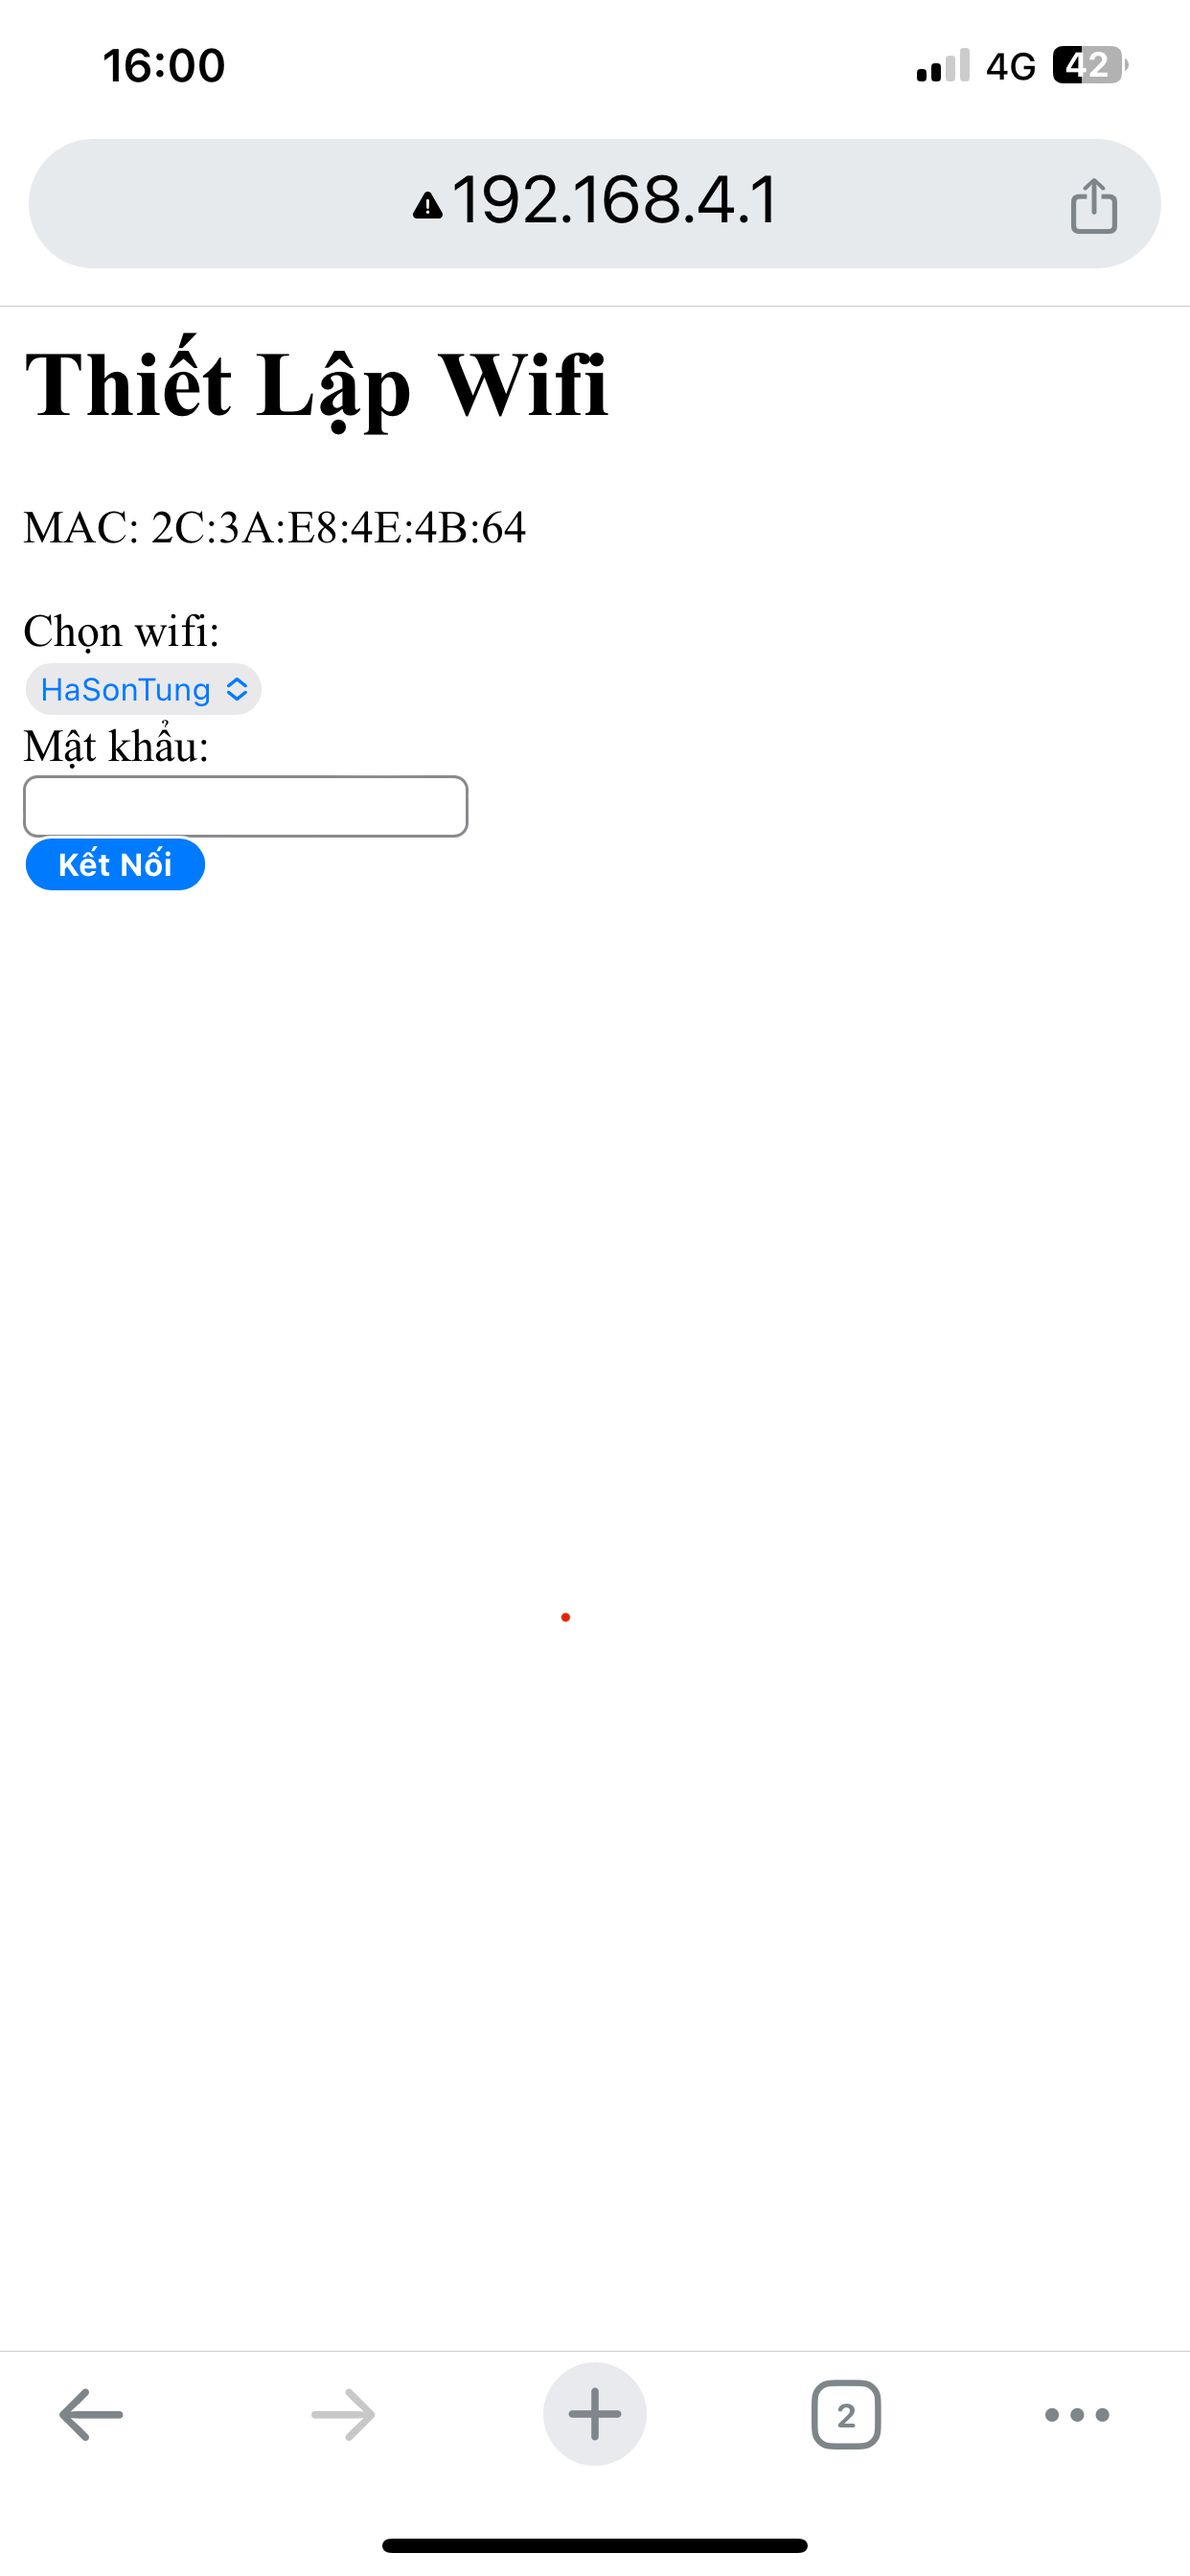
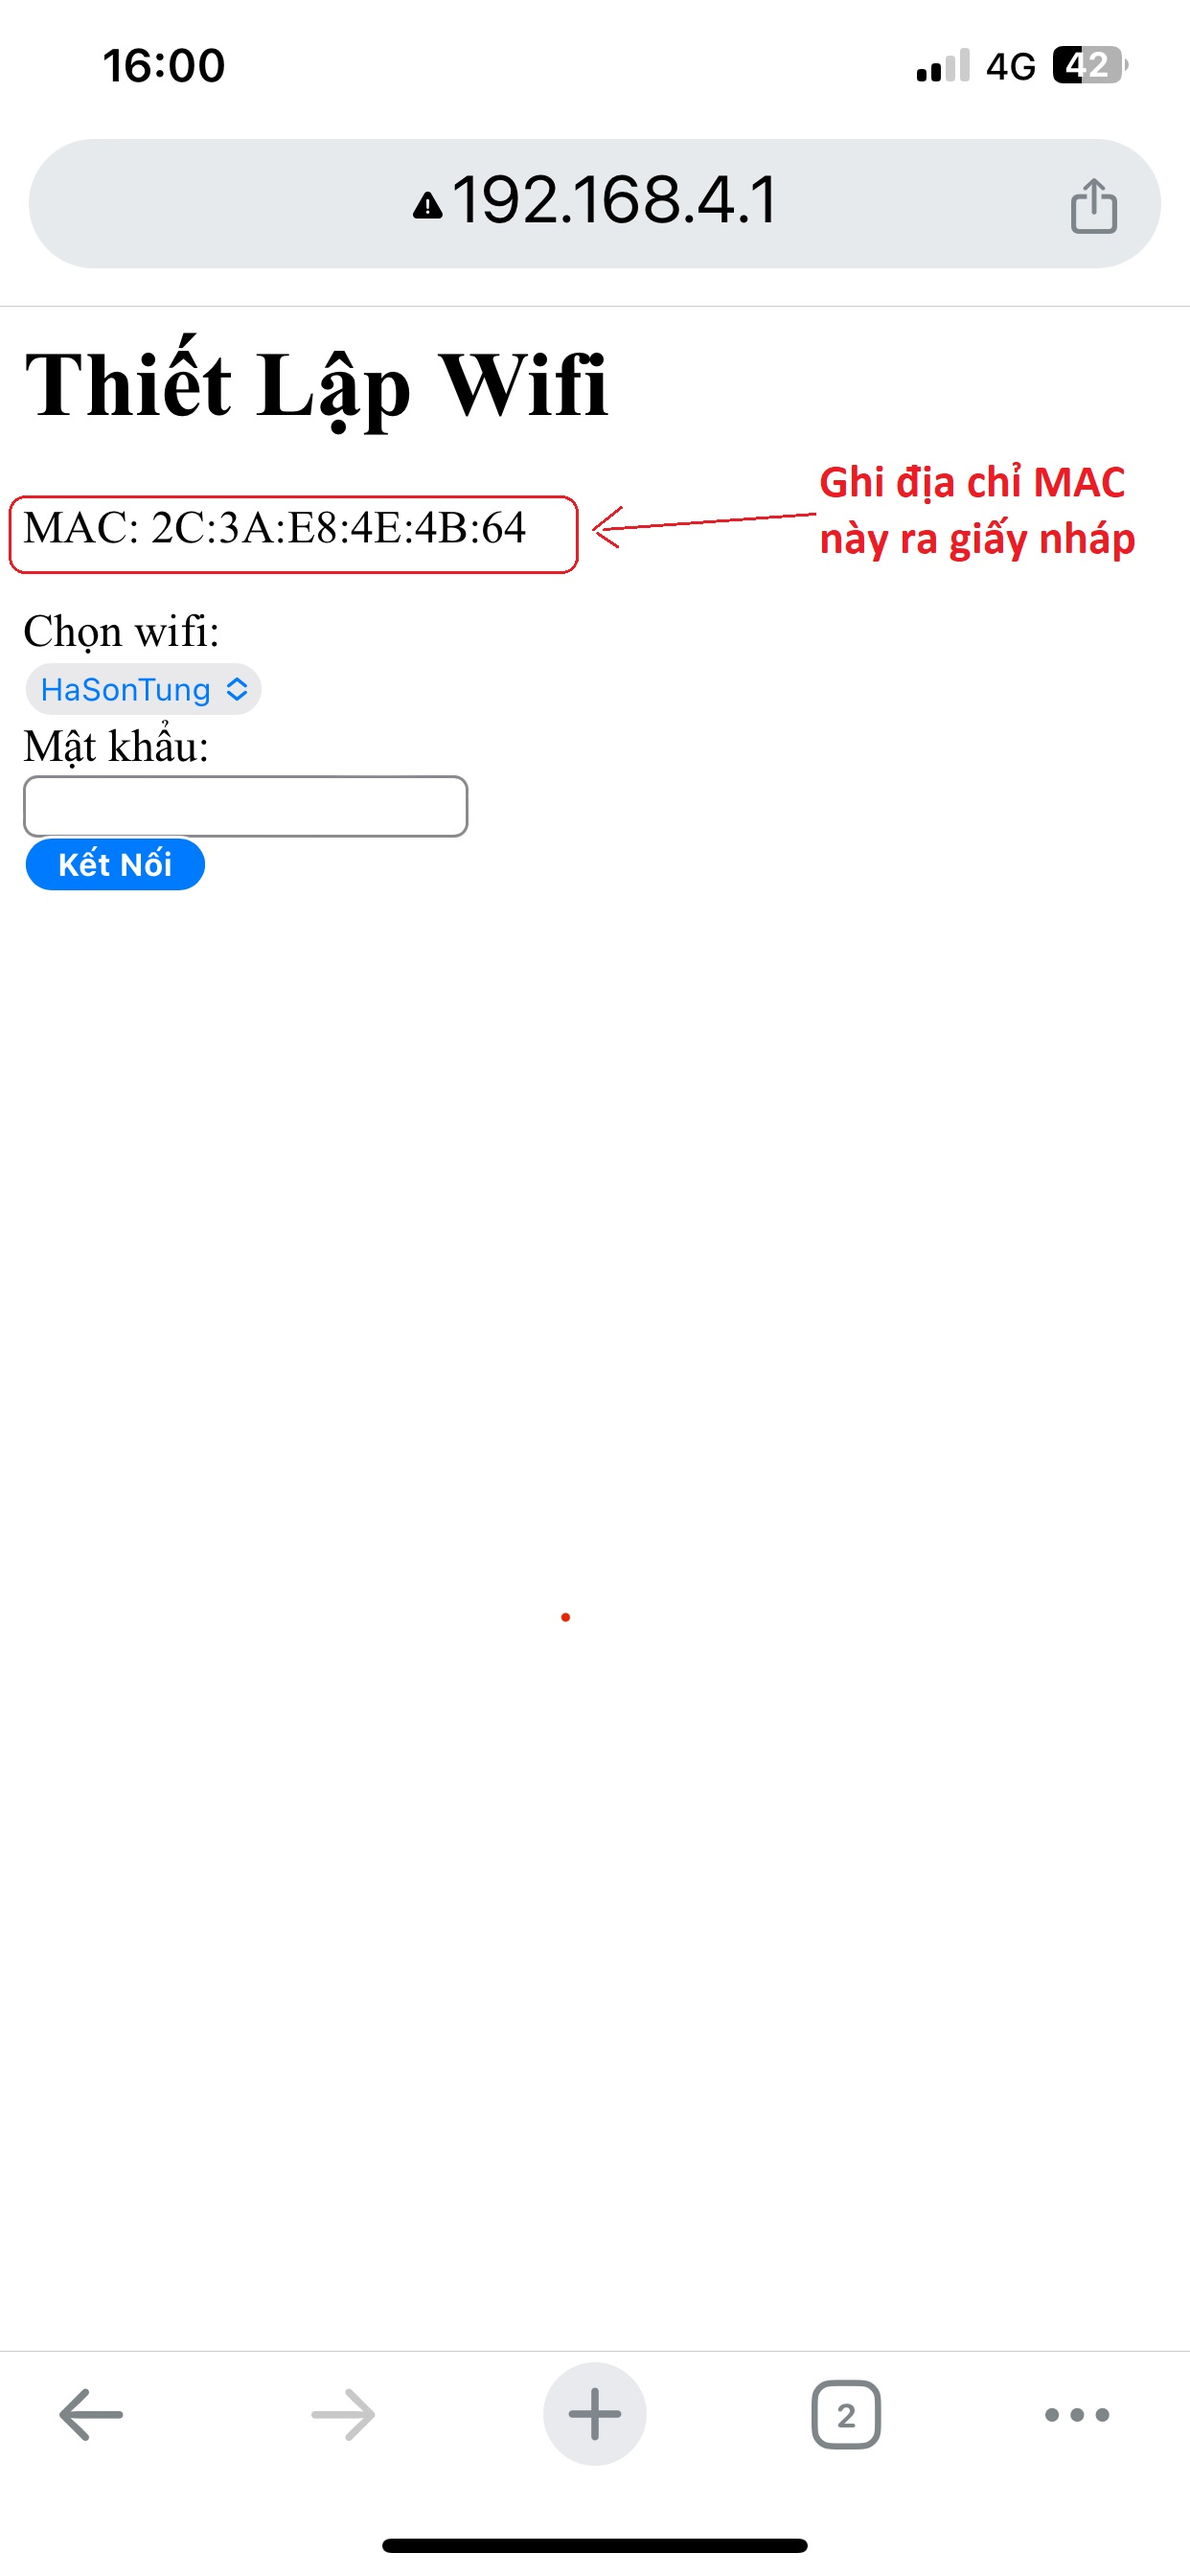
Add files via upload

Changed region(s): [[0.6731, 0.1562, 0.9485, 0.2188], [0.0612, 0.3125, 0.0918, 0.3438]]

diff --git a/index.html b/index.html
@@ -496,53 +496,54 @@ input[type="file"] {
 <p>Công tơ điện tử là thiết bị đo công suất tiêu thụ điện sử dụng chip điện tử (esp8266 + pzem 004t) để lập trình, đo, tính toán và lưu trữ dữ liệu theo thời gian thực.<br>
 Bên cạnh đó công tơ điện tử còn có khả năng kết nối truyền thông với các thiết bị khác như điện thoại, máy tính bảng, PC, Laptop thông qua dịch vụ free của bên thứ ba là google sheet.<br>
 Lưu ý công tơ điện tử này chỉ mang tính chất tham khảo, không dùng làm cắn cứ để tranh luận về lượng điện tiêu thụ giữa bạn và EVN.</span><br>
-Sự chênh lệch số điện tiêu thụ phụ thuộc vào ngày chốt số, giờ chốt số giữa thiết bị và công tơ EVN.</p>
-Đây là dự án miễn phí, được xây dựng và phát triển bởi Nguyễn Vượng, mọi ý kiến đóng góp hay thắc mắc vui lòng liên hệ zalo 0971282336.
+Sự <span style=color:blue>chênh lệch số điện tiêu thụ phụ thuộc vào ngày chốt số, giờ chốt số giữa công tơ điện thông minh và công tơ điện của EVN</span>.</p>
+<span style=color:red>Đây là dự án miễn phí, được xây dựng và phát triển bởi Nguyễn Vượng, mọi ý kiến đóng góp hoặc cần giải đáp vui lòng liên hệ zalo 0971282336</span>.
+<img width="25%" src="chiso.jpg"></img><img width="25%" src="chiso.png"></img>
 <h3>Chuẩn Bị Phần Cứng</h3>
 - Bạn cần có máy tính để bàn hoặc laptop.<br>
 - Mạch ESP8266 oled loại đã được hàn sẵn màn hinh( hoặc NodeMCU, D1 mini,D1 mini pro, - là những loại cần mua thêm màn hình và hàn theo sơ đồ dưới...)<br>
-Link mua ESP8266 trên shopee: <a href="https://shopee.vn/search?keyword=esp8266%20oled">https://shopee.vn/esp8266-20oled</a><br>
+Link mua ESP8266 oled trên shopee: <a href="https://shopee.vn/search?keyword=esp8266%20oled">https://shopee.vn/esp8266-20oled</a><br>
 - Mạch Pzem 004T v3.0 (cảm biến dòng khép kín).<br>
 Link mua Pzem 004T trên shopee: <a href="https://shopee.vn/search?keyword=pzem004t">https://shopee.vn/pzem004t</a><br>
-- Mỏ hàn thiếc hoặc ra quán điện thoại nhờ hàn hộ theo Sơ đồ dưới (phí 30k):<br><br>
+- Mỏ hàn thiếc hoặc ra quán điện thoại nhờ hàn hộ theo Sơ đồ dưới (phí ~ 30k):<br><br>
 <img width="70%" src="sodo.jpg"></img><br><br>
-<h3>Tạo Tài ID Google Sheet</h3>
-Các bạn bấm vào linh này để tạo bảng tính của google sheet <a href="https://docs.google.com/spreadsheets/create">https://docs.google.com/spreadsheets/create</a><br>
-
+<h3>Tạo ID Google Sheet</h3>
+Các bạn bấm vào link này để tạo ID bảng tính của google sheet <a href="https://docs.google.com/spreadsheets/create">https://docs.google.com/spreadsheets/create</a><br>
+Bạn copy nội dùng trong file ==> <a href="https://github.com/npbk21/congtodien/raw/main/App%20Script.txt">App Script.txt</a>
 <h3>Lệnh Cài Đặt Thiết Bị</h3>
 <p>Sau khi nạp xong phần mềm cho thiết bị (lần sử dụng đầu tiên), bạn thực hiện lần lượt các lệnh dưới.<br>
 <br><li>Thay đổi ID google sheet</li>
 <p>- Google sheet là dịch vụ hoàn toàn miễn phí của google, giúp bạn theo dõi qua điện thoại các chỉ số mà thiết bị đo và tính toán được theo thời gian thực.<br>
-- Mỗi một google sheet sẽ có một ID riêng biệt, khi bạn thay đổi app script ID này cũng sẽ thay đổi.<br>
-- Cách tạo ID google sheet bạn xem hướng dẫn phía dưới.<br>
-- Muốn nhập ID cho lần đầu khởi chạy hoặc thay ID mới cho thiết bị, bạn nhập: <span style=color:red>idmoichuỗiidcủabạn</span><br>
+- Mỗi một google sheet sẽ có một ID riêng biệt, khi bạn thay đổi App Script thì ID này cũng sẽ thay đổi.<br>
+- Cách tạo ID google sheet bạn xem hướng dẫn phía trên.<br>
+- Muốn nhập ID cho lần đầu khởi chạy hoặc thay ID mới cho thiết bị, bạn nhập: <span style=color:red>idmoi</span><span style=color:blue>chuỗiIDcủabạn</span><br>
 Ví dụ chuỗi mới là AKfycbxiL7rmnBRa0txRGtxwQeX2b12nb6g0hM9u3BNIOxIruRD1cIpQo3LFAGPp8q4ZFIlq<br>
-Thì các bạn nhập idmoiAKfycbxiL7rmnBRa0txRGtxwQeX2b12nb6g0hM9u3BNIOxIruRD1cIpQo3LFAGPp8q4ZFIlq<br></p>
+Thì các bạn nhập <span style=color:red>idmoi</span><span style=color:blue>AKfycbxiL7rmnBRa0txRGtxwQeX2b12nb6g0hM9u3BNIOxIruRD1cIpQo3LFAGPp8q4ZFIlq</span><br></p>
 <br><li>Thay đổi theo giá điện mới của EVN</li>
 - Từ 15/5/2024, giá điện sẽ được xét duyệt thay đổi 3 tháng một lần nếu giá đầu vào thay đổi trên 3%.<br>
 - Bạn truy cập link này để trả cứu giá điện mới của EVN: <a href="https://www.evn.com.vn/c3/calc/Cong-cu-tinh-hoa-don-tien-dien-9-172.aspx">https://www.evn.com.vn/c3/calc/Cong-cu-tinh-hoa-don-tien-dien-9-172.aspx</a><br>
-- Để thay đổi giá điện các bậc 1, 2, 3, 4, 5, 6 bạn nhập lần lượt các lệnh sau: <span style=color:red>bacmotXXXX</span>, <span style=color:red>bachaiXXXX</span>, <span style=color:red>bacbaXXXX</span>, <span style=color:red>bacbonXXXX</span>, <span style=color:red>bacnamXXXX</span>, <span style=color:red>bacsauXXXX</span><br>
-- XXXX là giá điện mới của từng bậc.<br>
+- Để thay đổi giá điện các bậc 1, 2, 3, 4, 5, 6 bạn nhập lần lượt các lệnh sau: <span style=color:red>bacmot</span><span style=color:blue>XXXX</span>, <span style=color:red>bachai</span><span style=color:blue>XXXX</span>, <span style=color:red>bacba</span><span style=color:blue>XXXX</span>, <span style=color:red>bacbon</span><span style=color:blue>XXXX</span>, <span style=color:red>bacnam</span><span style=color:blue>XXXX</span>, <span style=color:red>bacsau</span><span style=color:blue>XXXX</span><br>
+- <span style=color:blue>XXXX</span> là giá điện mới của từng bậc.<br>
 <br><li>Thay đổi thành điện một giá</li>
 - Với những bạn kinh doanh nhà trọ, muốn tính tiền điện tất cả các số điện theo cùng một giá.<br>
-- Bạn nhập: <span style=color:red>dienmotgiaXXXX</span><br>
-- XXXX là giá mà bạn muốn áp dụng<br>
+- Bạn nhập: <span style=color:red>dienmotgia</span><span style=color:blue>XXXX</span><br>
+- <span style=color:blue>XXXX</span> là giá mà bạn muốn áp dụng<br>
 - Muốn quay lại cách tính điện 6 bậc của EVN, bạn nhập: <span style=color:red>diensinhhoat</span><br>
 <br><li>Thay đổi ngày chốt số</li>
 - Thiết bị sẽ chốt số điện hàng tháng vào 23giờ59 của ngày mà bạn cài đặt.<br>
-- Bạn nhập: <span style=color:red>ngaychotsoXX</span><br>
-- XX là ngày bạn muốn chốt số điện.<br>
+- Bạn nhập: <span style=color:red>ngaychotso</span><span style=color:blue>XX</span><br>
+- <span style=color:blue>XX</span> là ngày bạn muốn chốt số điện.<br>
 <br><li>Thay đổi thời gian truyền dữ liệu</li>
 - Mặc định 7000 (miligiây) thiết bị sẽ chuyển màn hình và truyền dữ liệu lên google sheet một lần.<br>
-- Bạn nhập <span style=color:red>chuyenmanhinhXXXX</span><br>
-- Cứ sau XXXX mili giây thiết bị sẽ truyền dữ liệu một lần.<br>
+- Bạn nhập <span style=color:red>chuyenmanhinh</span><span style=color:blue>XXXX</span><br>
+- Cứ sau <span style=color:blue>XXXX</span> mili giây thiết bị sẽ truyền dữ liệu một lần.<br>
 
 <h3>Nạp Phần Mềm Cho Thiết Bị</h3>
-<li>Tải Driver, chương trình ESP8266Flasher và phần mềm đăng ký key cho thiết bị:</li> 
+<li>Tải Driver, chương trình ESP8266Flasher và phần mềm congtodien.bin</li> 
 <p> - Driver cho máy tính, tải về <a href="https://github.com/npbk21/congtodien/raw/main/CH34x_Install_Windows_v3_4.EXE">tại đây.</a></p>
 <p> - ESP8266Flasher cho Windows x86 (32 bit), tải về <a href="https://github.com/nodemcu/nodemcu-flasher/raw/master/Win32/Release/ESP8266Flasher.exe">tại đây.</a></p>
 <p> - ESP8266Flasher cho Windows x64 (64 bit), tải về <a href="https://github.com/ngocthuong234/ngocthuong234/raw/main/ESP8266Flasher.exe">tại đây.</a></p>
-<p> - Phần mềm đăng ký key cho thiết bị KeyServerSing.bin, tải về <a href="https://github.com/npbk21/congtodien/raw/main/congtodien.bin">tại đây.</a></p>
+<p> - Phần mềm đăng ký key cho thiết bị contodien.bin, tải về <a href="https://github.com/npbk21/congtodien/raw/main/congtodien.bin">tại đây.</a></p>
 <li>Cài Driver sau đó mở chương trình ESP8266Flasher.exe</li><br>
 <li>Kết nối thiết bị với máy tình bằng dây cáp USB</li><br>
 <img width="40%" src="flash1.jpg"></img><br><br>
@@ -558,7 +559,7 @@ Thì các bạn nhập idmoiAKfycbxiL7rmnBRa0txRGtxwQeX2b12nb6g0hM9u3BNIOxIruRD1
 <img width="20%" src="caidatwifi.jpg"></img><br><br>
 <li>Bạn ghi nhớ địa chỉ MAC được hiển thị trên màn hình, sau đó chọn mạng wifi nhà bạn, nhập chính xác mật khẩu và bấm "Kết Nối" để thiết bị kết nối với wifi nhà bạn.</li><br>
 <li>Bạn dùng điện thoại android vào CHplay cài ứng dụng IP tool để xem địa chỉ IP nội bộ của công tơ điện.</li><br>
-<li>Bạn vào trình duyệt web truy cập vào địa chỉ IP nội bộ để nhập lệnh cho lần đầu sử dụng theo hướng dẫn ở trên.</li><br>
-<img width="20%" src="flash6.jpg"></img><br><br>
+<li>Sau khi đã biết được IP nội bộ của công tơ điện, bạn vào trình duyệt web nhập địa chỉ IP nội bộ để tiến hành cài đặt lệnh cho lần đầu sử dụng theo hướng dẫn ở trên.</li><br>
+<br><br>
 </div>
 </body></html>
